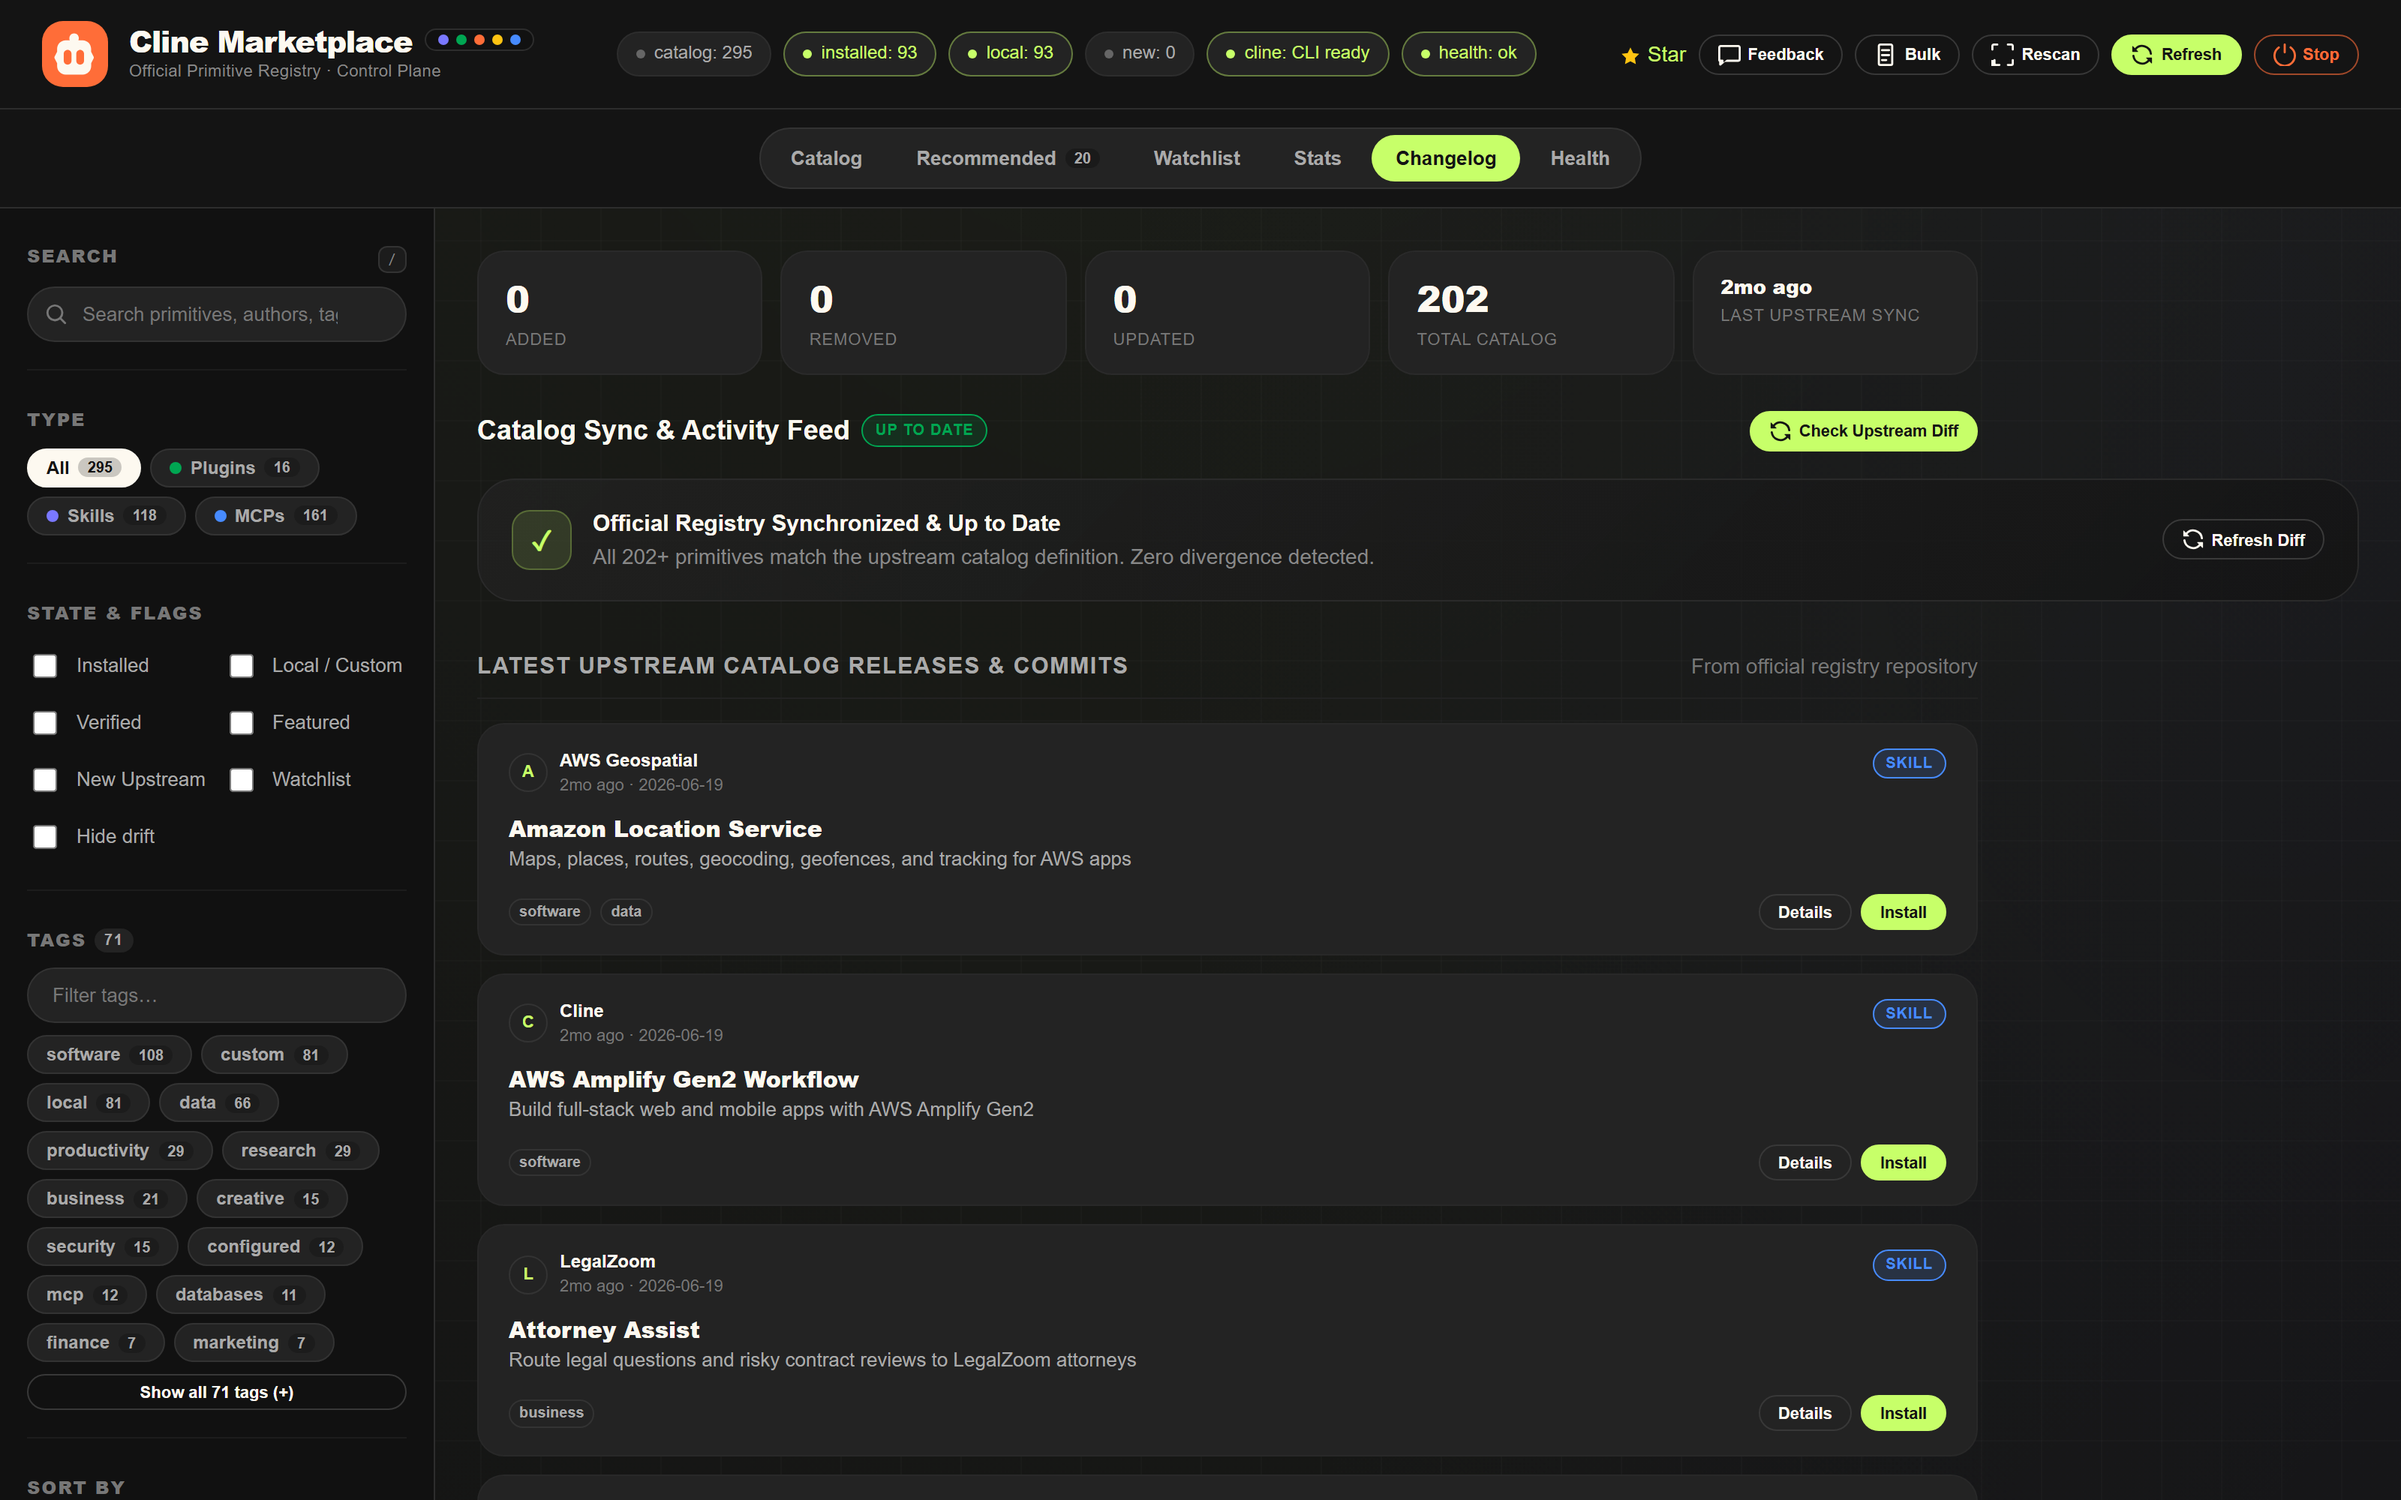
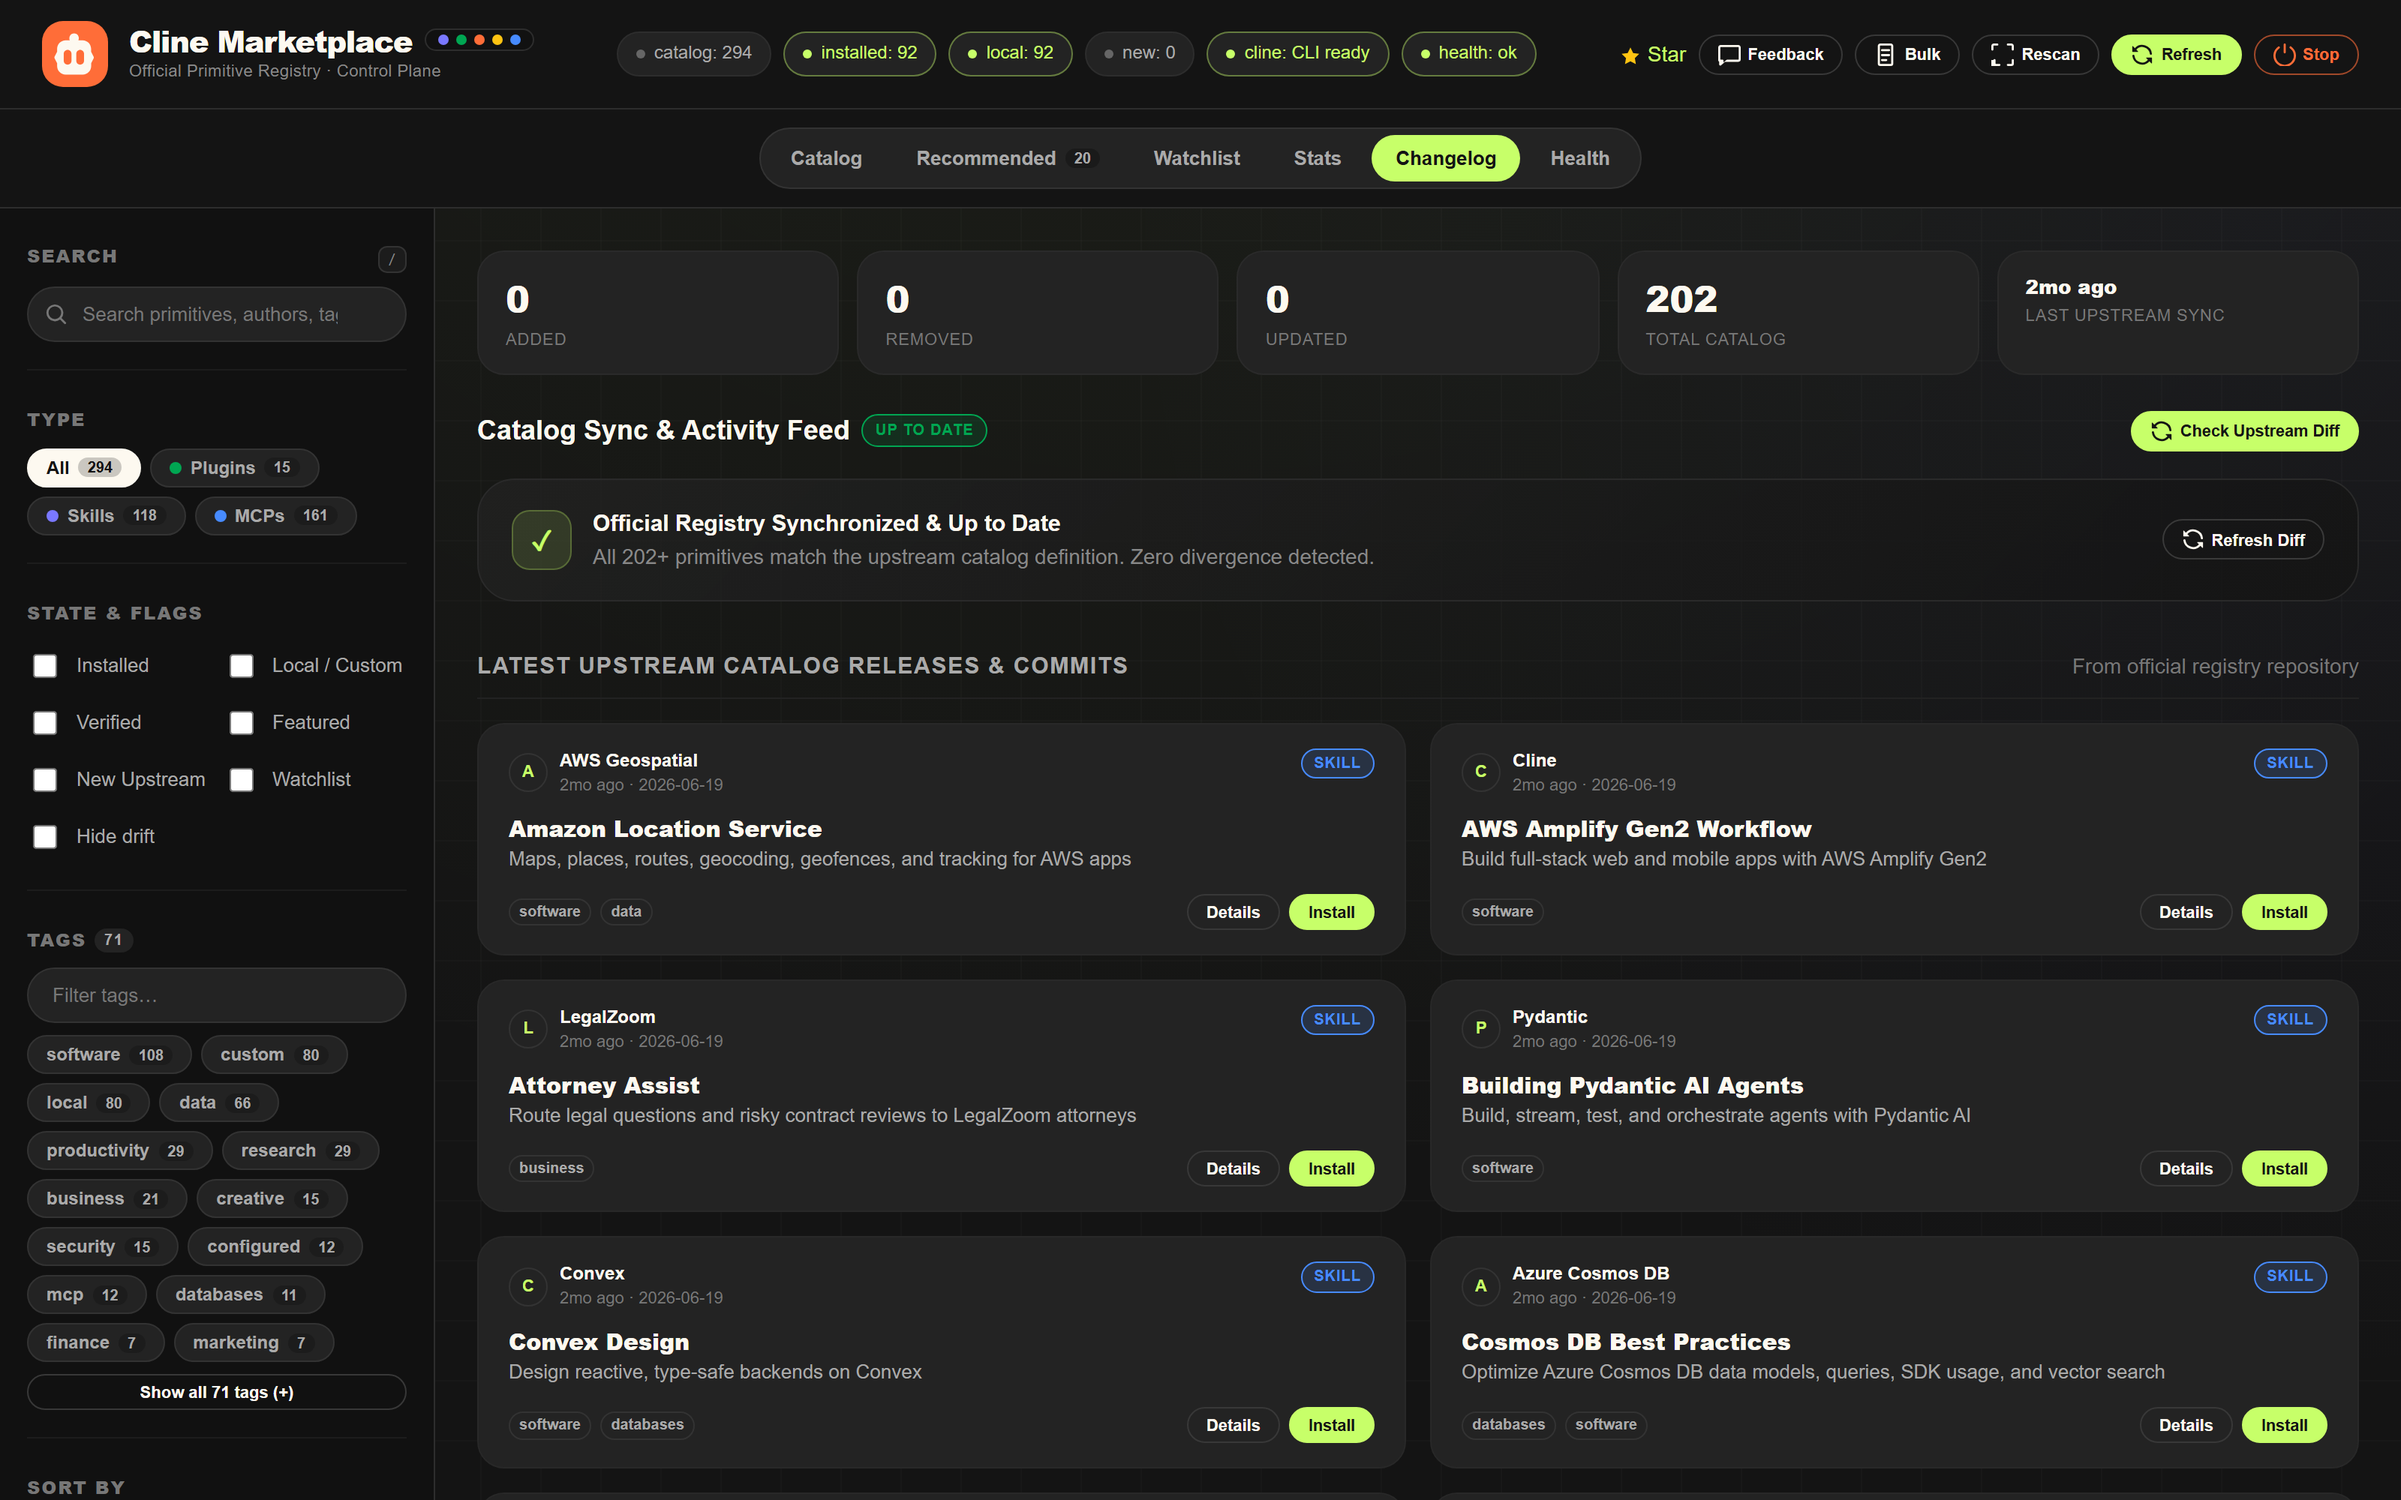
fix: resolve npm spawn env, accelerate catalog refresh, and overhaul 2-column responsive layout

diff --git a/lib/runner.js b/lib/runner.js
@@ -1,8 +1,7 @@
-// CLI command executor with concurrency serialization and defensive timeouts
-
 import { spawn, exec } from "node:child_process";
 import { existsSync } from "node:fs";
-import { platform } from "node:os";
+import { platform, homedir } from "node:os";
+import { dirname, join, delimiter } from "node:path";
 import { resolveCommand } from "./resolver.js";
 import { isWindowsBatchShim, sanitizeWorkspacePath } from "./sanitizers.js";
 import { logger } from "./logger.js";
@@ -12,6 +11,37 @@ const MAX_BUFFER = 5 * 1024 * 1024; // 5MB buffer limit
 
 let _cachedClinePath = null;
 let _commandLock = Promise.resolve();
+
+/**
+ * Builds a robust execution environment with guaranteed Node & npm PATH.
+ * @returns {NodeJS.ProcessEnv}
+ */
+export function getExecutionEnv() {
+  const nodeDir = dirname(process.execPath);
+  const npmGlobalDir = isWin
+    ? join(homedir(), "AppData", "Roaming", "npm")
+    : "/usr/local/bin";
+
+  const rawPath = process.env.PATH || process.env.Path || process.env.path || "";
+  const parts = rawPath.split(delimiter).filter(Boolean);
+
+  if (!parts.includes(nodeDir)) parts.unshift(nodeDir);
+  if (isWin && !parts.includes(npmGlobalDir)) parts.unshift(npmGlobalDir);
+
+  const fullPath = parts.join(delimiter);
+
+  const env = {
+    ...process.env,
+    PATH: fullPath,
+    Path: fullPath,
+    PATHEXT: process.env.PATHEXT || ".COM;.EXE;.BAT;.CMD;.VBS;.VBE;.JS;.JSE;.WSF;.WSH;.MSC",
+  };
+
+  if (isWin && !env.ComSpec) {
+    env.ComSpec = process.env.ComSpec || "C:\\Windows\\System32\\cmd.exe";
+  }
+  return env;
+}
 
 /**
  * Resolves the absolute path to the cline executable.
@@ -68,6 +98,7 @@ export async function runCline(args, { timeoutMs = 180_000, cwd = process.cwd() 
   const isBatch = isWindowsBatchShim(exe);
   const targetCwd = sanitizeWorkspacePath(cwd);
   const cmdStr = `cline ${args.join(" ")}`;
+  const spawnEnv = getExecutionEnv();
 
   const runOperation = async () => {
     const startTime = Date.now();
@@ -78,6 +109,7 @@ export async function runCline(args, { timeoutMs = 180_000, cwd = process.cwd() 
         if (isBatch) {
           proc = spawn(exe, args, {
             cwd: targetCwd,
+            env: spawnEnv,
             stdio: ["ignore", "pipe", "pipe"],
             windowsHide: true,
             shell: true,
@@ -85,6 +117,7 @@ export async function runCline(args, { timeoutMs = 180_000, cwd = process.cwd() 
         } else {
           proc = spawn(exe, args, {
             cwd: targetCwd,
+            env: spawnEnv,
             stdio: ["ignore", "pipe", "pipe"],
             windowsHide: true,
           });

diff --git a/public/styles.css b/public/styles.css
@@ -1387,7 +1387,7 @@ main {
   align-items: center;
   flex-wrap: wrap;
   gap: 20px;
-  max-width: 1000px;
+  width: 100%;
 }
 .health-kpi-status {
   display: flex;
@@ -1447,6 +1447,18 @@ main {
   margin-top: 2px;
 }
 
+.health-grid {
+  display: grid;
+  grid-template-columns: repeat(2, minmax(0, 1fr));
+  gap: 16px;
+  width: 100%;
+}
+@media (max-width: 900px) {
+  .health-grid {
+    grid-template-columns: 1fr;
+  }
+}
+
 .health-item {
   background: var(--surface-charcoal-900);
   border: 1.5px solid #2d2d2d;
@@ -1497,10 +1509,15 @@ main {
 }
 
 .health-storage-list {
-  display: flex;
-  flex-direction: column;
-  gap: 8px;
-  margin-top: 4px;
+  display: grid;
+  grid-template-columns: repeat(2, minmax(0, 1fr));
+  gap: 10px;
+  margin-top: 6px;
+}
+@media (max-width: 900px) {
+  .health-storage-list {
+    grid-template-columns: 1fr;
+  }
 }
 .health-storage-row {
   background: #141414;
@@ -1545,7 +1562,7 @@ main {
   grid-template-columns: repeat(auto-fit, minmax(140px, 1fr));
   gap: 12px;
   margin-bottom: 24px;
-  max-width: 1000px;
+  width: 100%;
 }
 .kpi-card {
   background: var(--surface-charcoal-900);
@@ -1574,12 +1591,12 @@ main {
   justify-content: space-between;
   align-items: center;
   margin-bottom: 18px;
-  max-width: 1000px;
+  width: 100%;
 }
 
 .timeline-section {
   margin-top: 32px;
-  max-width: 1000px;
+  width: 100%;
 }
 .timeline-head {
   display: flex;
@@ -1590,9 +1607,15 @@ main {
   border-bottom: 1px solid #222222;
 }
 .timeline-list {
-  display: flex;
-  flex-direction: column;
-  gap: 12px;
+  display: grid;
+  grid-template-columns: repeat(2, minmax(0, 1fr));
+  gap: 16px;
+  width: 100%;
+}
+@media (max-width: 900px) {
+  .timeline-list {
+    grid-template-columns: 1fr;
+  }
 }
 .timeline-card {
   background: var(--surface-charcoal-900);

diff --git a/lib/routes.js b/lib/routes.js
@@ -10,7 +10,7 @@ import { readJson, safeWriteJson } from "./state.js";
 import { sanitizePrimitiveId, sanitizePrimitiveType, sanitizeWorkspacePath } from "./sanitizers.js";
 import { fsProbe } from "./probes.js";
 import { reconcile } from "./reconciler.js";
-import { runCline, verbFor, resolveCline } from "./runner.js";
+import { runCline, verbFor, resolveCline, getExecutionEnv } from "./runner.js";
 import { resolveCommand, isWindowsBatchShim } from "./resolver.js";
 import { logger } from "./logger.js";
 
@@ -1090,9 +1090,14 @@ export function createApiRouter({ root, dataDir, CATALOG_PATH, PREV_CATALOG_PATH
     try {
       if (!_refreshJob) {
         const refreshScript = join(root, "scripts", "refresh-catalog.mjs");
-        _refreshJob = execFileP(process.execPath, [refreshScript], {
+        const args = [refreshScript];
+        if (req.query?.catalog === "true" || req.body?.catalog === true) {
+          args.push("--catalog");
+        }
+        _refreshJob = execFileP(process.execPath, args, {
           cwd: root,
-          timeout: 60000,
+          env: getExecutionEnv(),
+          timeout: 120000,
           windowsHide: true,
         }).finally(() => {
           _refreshJob = null;

diff --git a/public/app.js b/public/app.js
@@ -1240,12 +1240,17 @@ async function copyToClipboard(text, btnElement = null) {
   }
 }
 
+function stripAnsi(str) {
+  return typeof str === "string" ? str.replace(/\x1B\[[0-?]*[ -/]*[@-~]/g, "") : "";
+}
+
 function showInstallOutput(out, isError) {
   const host = $("#installOutput");
   if (!host) return;
   host.innerHTML = "";
   if (!out) return;
 
+  const cleanOut = stripAnsi(out);
   const wrap = document.createElement("div");
   wrap.style.marginTop = "14px";
   wrap.innerHTML = `
@@ -1255,9 +1260,9 @@ function showInstallOutput(out, isError) {
     </div>
     <pre class="install-output ${isError ? "error" : ""}"></pre>
   `;
-  wrap.querySelector("pre").textContent = out;
+  wrap.querySelector("pre").textContent = cleanOut;
   wrap.querySelector("#btnCopyOutput").addEventListener("click", () => {
-    copyToClipboard(out, wrap.querySelector("#btnCopyOutput"));
+    copyToClipboard(cleanOut, wrap.querySelector("#btnCopyOutput"));
   });
   host.appendChild(wrap);
 }

diff --git a/public/index.html b/public/index.html
@@ -394,7 +394,7 @@
           </div>
         </div>
 
-        <div style="display:flex;justify-content:space-between;align-items:center;margin:24px 0 16px 0;max-width:1000px">
+        <div style="display:flex;justify-content:space-between;align-items:center;margin:24px 0 16px 0;width:100%">
           <div>
             <h2 style="font-family:var(--font-display);font-size:18px;margin:0 0 4px 0">Diagnostic Probes &amp; Storage Matrix</h2>
             <p style="color:#888;margin:0;font-size:13px">Live telemetry, toolchain paths, and multi-root storage breakdown.</p>
@@ -408,7 +408,7 @@
           </div>
         </div>
 
-        <div id="healthList" class="health-grid" style="display:grid;grid-template-columns:repeat(auto-fit, minmax(420px, 1fr));gap:16px;max-width:1000px"></div>
+        <div id="healthList" class="health-grid"></div>
       </div>
     </section>
   </main>

diff --git a/CHANGELOG.md b/CHANGELOG.md
@@ -17,12 +17,16 @@ and this project adheres to [Semantic Versioning](https://semver.org/spec/v2.0.0
   - `POST /api/workspaces/validate` validating workspace directory existence, `.git` repository status, and `.cline` configurations.
 - **Upstream Release Timeline & Activity Stream**: Synthesized `recentReleases` in `/api/changelog` from `catalog.json` and `data/upstream-meta.json` with commit authors, avatars, relative/absolute timestamps, tags, and 1-click "Details" and "Install" triggers.
 - **Changelog Sync Status Banner**: Compact visual alert (`.chlog-sync-banner`) displaying up-to-date registry state and inline diff trigger when zero diffs are detected.
+- **Subprocess Environment & PATH Augmentation**: Augmented `lib/runner.js` with `getExecutionEnv()` ensuring `PATH`, `Path`, `PATHEXT`, and `ComSpec` include Node.js and global npm directories, preventing `ENOENT: uv_spawn 'npm'` failures during primitive installations.
+- **High-Speed Concurrent Metadata Refresh**: Refactored `scripts/refresh-catalog.mjs` to fetch GitHub commit timestamps in parallel chunks with 120s server timeout, dropping sync runtime from 75s to ~15s.
+- **Wide-Screen 2-Column Responsive Grid**: Overhauled Health and Changelog tab layouts with full-width responsive 2-column card grids, eliminating horizontal whitespace on wide displays.
 - **Deep CSS & UI Polish**:
   - Dark customized Webkit scrollbars (`::-webkit-scrollbar`).
   - Spring-like modal scale-in / fade-in animations with `backdrop-filter: blur(10px)`.
   - Accessible focus rings (`:focus-visible` with 2px acid lime outline).
   - Floating bulk actions toolbar dock (`.bulk-bar`).
   - Environment variable schema tables in detail modals (`.env-table`).
+  - ANSI code filter (`stripAnsi`) on modal execution log streams.
 
 ---
 
